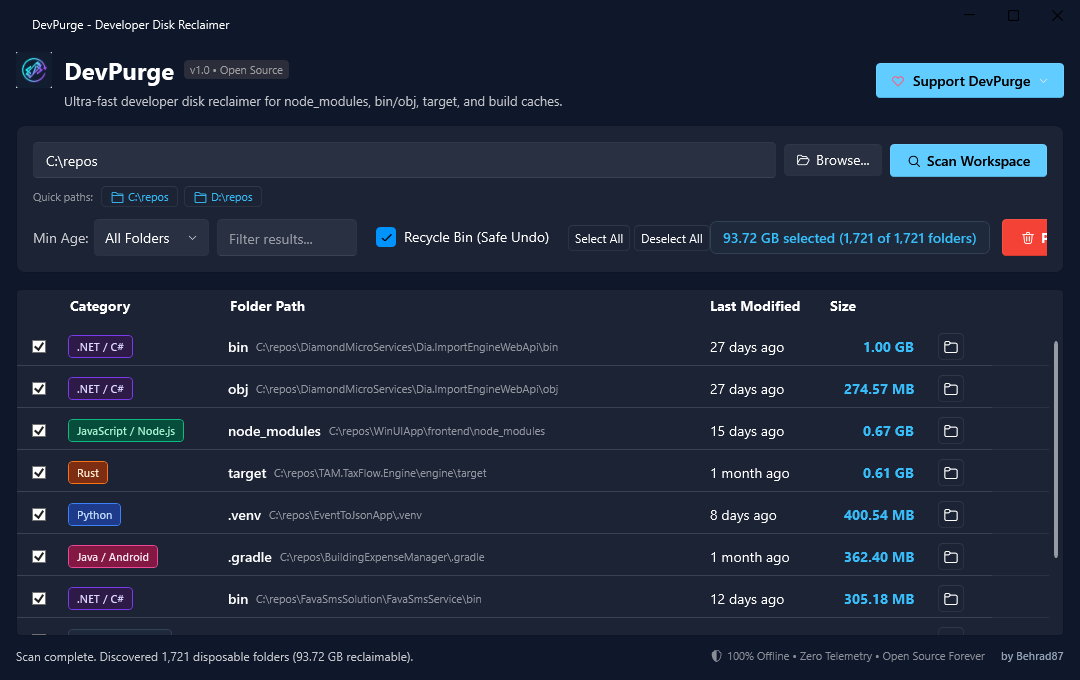
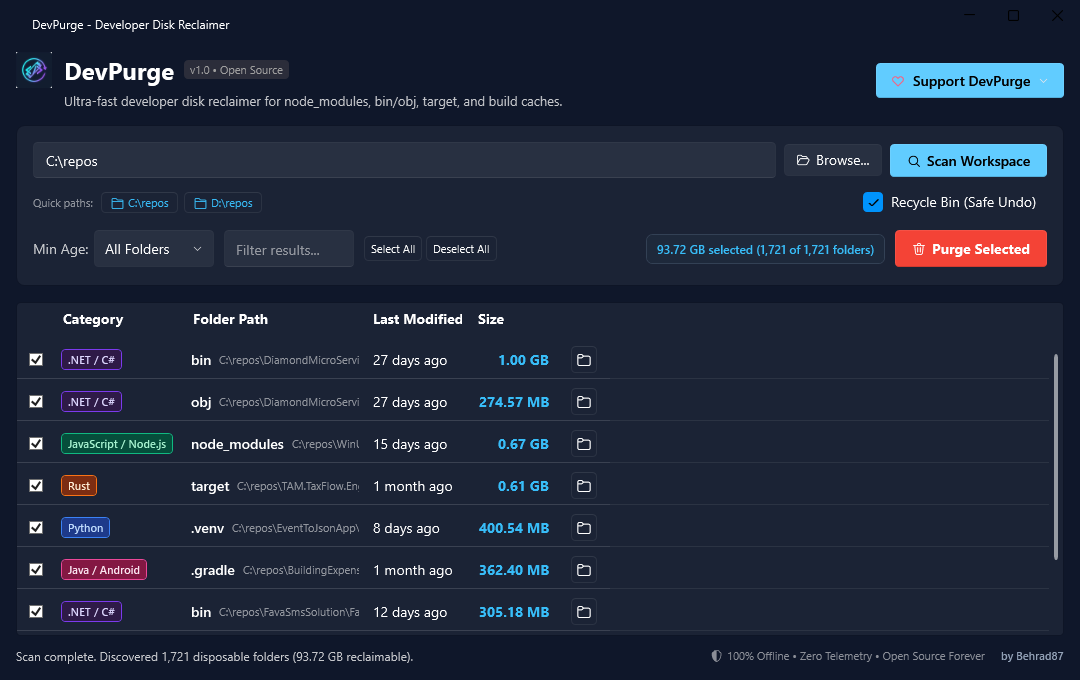
fix(ux): make toolbar and datagrid responsive and debounce search filtering

diff --git a/src/DevPurge.App/Views/MainWindow.xaml b/src/DevPurge.App/Views/MainWindow.xaml
@@ -8,7 +8,7 @@
         mc:Ignorable="d"
         Title="DevPurge - Developer Disk Reclaimer"
         Height="680" Width="1080"
-        MinHeight="550" MinWidth="850"
+        MinHeight="520" MinWidth="750"
         WindowStartupLocation="CenterScreen"
         Icon="pack://application:,,,/Assets/icon.ico">
 
@@ -141,78 +141,84 @@
                     </ui:Button>
                 </Grid>
 
-                <!-- Row 2: Quick Path Preset Chips -->
-                <StackPanel Grid.Row="1" Orientation="Horizontal" Margin="0,0,0,12">
-                    <TextBlock Text="Quick paths:" FontSize="11" Foreground="{DynamicResource TextFillColorTertiaryBrush}" VerticalAlignment="Center" Margin="0,0,8,0" />
-                    <ui:Button Command="{Binding SelectQuickPathCommand}" CommandParameter="C:\repos"
-                               Appearance="Transparent" Padding="8,2" Margin="0,0,6,0">
-                        <TextBlock Text="📁 C:\repos" FontSize="11" Foreground="#38BDF8" />
-                    </ui:Button>
-                    <ui:Button Command="{Binding SelectQuickPathCommand}" CommandParameter="D:\repos"
-                               Appearance="Transparent" Padding="8,2" Margin="0,0,6,0">
-                        <TextBlock Text="📁 D:\repos" FontSize="11" Foreground="#38BDF8" />
-                    </ui:Button>
-                </StackPanel>
-
-                <!-- Row 3: Filters, Search, Selection & Purge Action -->
-                <Grid Grid.Row="2">
+                <!-- Row 2: Quick Path Preset Chips & Recycle Bin Toggle -->
+                <Grid Grid.Row="1" Margin="0,0,0,10">
                     <Grid.ColumnDefinitions>
-                        <ColumnDefinition Width="Auto" />
-                        <ColumnDefinition Width="Auto" />
-                        <ColumnDefinition Width="Auto" />
-                        <ColumnDefinition Width="Auto" />
                         <ColumnDefinition Width="*" />
-                        <ColumnDefinition Width="Auto" />
                         <ColumnDefinition Width="Auto" />
                     </Grid.ColumnDefinitions>
 
-                    <!-- Filter by Age -->
-                    <StackPanel Grid.Column="0" Orientation="Horizontal" VerticalAlignment="Center" Margin="0,0,8,0">
-                        <TextBlock Text="Min Age:" VerticalAlignment="Center" Margin="0,0,6,0"
-                                   Foreground="{DynamicResource TextFillColorSecondaryBrush}" />
-                        <ComboBox SelectedIndex="{Binding MinAgeFilterIndex}" Width="115">
-                            <ComboBoxItem Content="All Folders" />
-                            <ComboBoxItem Content="> 7 days old" />
-                            <ComboBoxItem Content="> 14 days old" />
-                            <ComboBoxItem Content="> 30 days old" />
-                        </ComboBox>
+                    <StackPanel Grid.Column="0" Orientation="Horizontal" VerticalAlignment="Center">
+                        <TextBlock Text="Quick paths:" FontSize="11" Foreground="{DynamicResource TextFillColorTertiaryBrush}" VerticalAlignment="Center" Margin="0,0,8,0" />
+                        <ui:Button Command="{Binding SelectQuickPathCommand}" CommandParameter="C:\repos"
+                                   Appearance="Transparent" Padding="8,2" Margin="0,0,6,0">
+                            <TextBlock Text="📁 C:\repos" FontSize="11" Foreground="#38BDF8" />
+                        </ui:Button>
+                        <ui:Button Command="{Binding SelectQuickPathCommand}" CommandParameter="D:\repos"
+                                   Appearance="Transparent" Padding="8,2" Margin="0,0,6,0">
+                            <TextBlock Text="📁 D:\repos" FontSize="11" Foreground="#38BDF8" />
+                        </ui:Button>
                     </StackPanel>
 
-                    <!-- Live Real-Time Search Filter -->
-                    <ui:TextBox Grid.Column="1" Text="{Binding SearchText, UpdateSourceTrigger=PropertyChanged}"
-                                PlaceholderText="Filter results..."
-                                Width="140" VerticalContentAlignment="Center" Margin="0,0,8,0"
-                                ClearButtonEnabled="True" />
-
-                    <!-- Recycle Bin Toggle -->
-                    <CheckBox Grid.Column="2" IsChecked="{Binding SendToRecycleBin}"
-                              Content="Recycle Bin (Safe Undo)" VerticalAlignment="Center" Margin="0,0,8,0"
+                    <!-- Recycle Bin Toggle (Anchored on right of Row 2) -->
+                    <CheckBox Grid.Column="1" IsChecked="{Binding SendToRecycleBin}"
+                              Content="Recycle Bin (Safe Undo)" VerticalAlignment="Center"
                               ToolTip="Moves files to the Windows Recycle Bin instead of permanent deletion" />
+                </Grid>
 
-                    <!-- Quick Selection Buttons -->
-                    <StackPanel Grid.Column="3" Orientation="Horizontal" VerticalAlignment="Center">
-                        <ui:Button Command="{Binding SelectAllCommand}" Appearance="Transparent" Padding="6,4" Margin="0,0,4,0">
-                            <TextBlock Text="Select All" FontSize="12" />
-                        </ui:Button>
-                        <ui:Button Command="{Binding DeselectAllCommand}" Appearance="Transparent" Padding="6,4">
-                            <TextBlock Text="Deselect All" FontSize="12" />
+                <!-- Row 3: Responsive Filters & Action Toolbar -->
+                <Grid Grid.Row="2">
+                    <Grid.ColumnDefinitions>
+                        <ColumnDefinition Width="*" />
+                        <ColumnDefinition Width="Auto" />
+                    </Grid.ColumnDefinitions>
+
+                    <!-- Left: Filter Controls (Uses WrapPanel to wrap gracefully if window is narrow) -->
+                    <WrapPanel Grid.Column="0" Orientation="Horizontal" VerticalAlignment="Center">
+                        <!-- Filter by Age -->
+                        <StackPanel Orientation="Horizontal" VerticalAlignment="Center" Margin="0,2,10,2">
+                            <TextBlock Text="Min Age:" VerticalAlignment="Center" Margin="0,0,6,0"
+                                       Foreground="{DynamicResource TextFillColorSecondaryBrush}" />
+                            <ComboBox SelectedIndex="{Binding MinAgeFilterIndex}" Width="120">
+                                <ComboBoxItem Content="All Folders" />
+                                <ComboBoxItem Content="> 7 days" />
+                                <ComboBoxItem Content="> 14 days" />
+                                <ComboBoxItem Content="> 30 days" />
+                            </ComboBox>
+                        </StackPanel>
+
+                        <!-- Live Real-Time Search Filter -->
+                        <ui:TextBox Text="{Binding SearchText, UpdateSourceTrigger=PropertyChanged}"
+                                    PlaceholderText="Filter results..."
+                                    Width="130" VerticalContentAlignment="Center" Margin="0,2,10,2"
+                                    ClearButtonEnabled="True" />
+
+                        <!-- Quick Selection Buttons -->
+                        <StackPanel Orientation="Horizontal" VerticalAlignment="Center" Margin="0,2,8,2">
+                            <ui:Button Command="{Binding SelectAllCommand}" Appearance="Transparent" Padding="6,4" Margin="0,0,4,0">
+                                <TextBlock Text="Select All" FontSize="11" />
+                            </ui:Button>
+                            <ui:Button Command="{Binding DeselectAllCommand}" Appearance="Transparent" Padding="6,4">
+                                <TextBlock Text="Deselect All" FontSize="11" />
+                            </ui:Button>
+                        </StackPanel>
+                    </WrapPanel>
+
+                    <!-- Right: Reclaimable Summary Badge & PURGE BUTTON (Always visible & pinned to the right) -->
+                    <StackPanel Grid.Column="1" Orientation="Horizontal" VerticalAlignment="Center" Margin="8,2,0,2">
+                        <Border Background="#1E293B" BorderBrush="#334155" BorderThickness="1"
+                                CornerRadius="6" Padding="10,6" Margin="0,0,10,0" VerticalAlignment="Center">
+                            <TextBlock Text="{Binding SummaryText}" FontWeight="SemiBold" Foreground="#38BDF8" FontSize="12" />
+                        </Border>
+
+                        <ui:Button Command="{Binding PurgeCommand}"
+                                   Appearance="Danger" Padding="16,8">
+                            <StackPanel Orientation="Horizontal">
+                                <ui:SymbolIcon Symbol="Delete24" Margin="0,0,6,0" />
+                                <TextBlock Text="Purge Selected" FontWeight="Bold" />
+                            </StackPanel>
                         </ui:Button>
                     </StackPanel>
-
-                    <!-- Reclaimable Badge Summary -->
-                    <Border Grid.Column="5" Background="#1E293B" BorderBrush="#334155" BorderThickness="1"
-                            CornerRadius="6" Padding="12,6" Margin="0,0,12,0" VerticalAlignment="Center">
-                        <TextBlock Text="{Binding SummaryText}" FontWeight="SemiBold" Foreground="#38BDF8" />
-                    </Border>
-
-                    <!-- PURGE BUTTON -->
-                    <ui:Button Grid.Column="6" Command="{Binding PurgeCommand}"
-                               Appearance="Danger" Padding="18,8">
-                        <StackPanel Orientation="Horizontal">
-                            <ui:SymbolIcon Symbol="Delete24" Margin="0,0,6,0" />
-                            <TextBlock Text="Purge Selected" FontWeight="Bold" />
-                        </StackPanel>
-                    </ui:Button>
                 </Grid>
             </Grid>
         </Border>
@@ -235,15 +241,15 @@
                 <DataGrid.Columns>
                     <!-- Checkbox Column -->
                     <DataGridCheckBoxColumn Binding="{Binding IsSelected, UpdateSourceTrigger=PropertyChanged}"
-                                            Width="45" Header="" />
+                                            Width="38" Header="" />
 
                     <!-- Category / Ecosystem Badge (Color Coded) -->
-                    <DataGridTemplateColumn Header="Category" Width="160">
+                    <DataGridTemplateColumn Header="Category" Width="130">
                         <DataGridTemplateColumn.CellTemplate>
                             <DataTemplate>
                                 <Border Background="{Binding CategoryBadgeBackground}"
                                         BorderBrush="{Binding CategoryBadgeBorder}" BorderThickness="1"
-                                        CornerRadius="4" Padding="8,3"
+                                        CornerRadius="4" Padding="6,2"
                                         HorizontalAlignment="Left" VerticalAlignment="Center">
                                     <TextBlock Text="{Binding CategoryName}" FontSize="11" FontWeight="Medium"
                                                Foreground="{Binding CategoryBadgeForeground}" />
@@ -253,7 +259,7 @@
                     </DataGridTemplateColumn>
 
                     <!-- Folder Name & Path -->
-                    <DataGridTemplateColumn Header="Folder Path" Width="*" MinWidth="480">
+                    <DataGridTemplateColumn Header="Folder Path" Width="*" MinWidth="180">
                         <DataGridTemplateColumn.CellTemplate>
                             <DataTemplate>
                                 <StackPanel Orientation="Horizontal" VerticalAlignment="Center">
@@ -265,20 +271,20 @@
                     </DataGridTemplateColumn>
 
                     <!-- Age / Last Modified -->
-                    <DataGridTextColumn Header="Last Modified" Binding="{Binding FormattedAge}" Width="120" />
+                    <DataGridTextColumn Header="Last Modified" Binding="{Binding FormattedAge}" Width="105" />
 
                     <!-- Size Column -->
-                    <DataGridTemplateColumn Header="Size" Width="110">
+                    <DataGridTemplateColumn Header="Size" Width="95">
                         <DataGridTemplateColumn.CellTemplate>
                             <DataTemplate>
                                 <TextBlock Text="{Binding FormattedSize}" FontWeight="Bold" Foreground="#38BDF8"
-                                           HorizontalAlignment="Right" VerticalAlignment="Center" Margin="0,0,12,0" />
+                                           HorizontalAlignment="Right" VerticalAlignment="Center" Margin="0,0,10,0" />
                             </DataTemplate>
                         </DataGridTemplateColumn.CellTemplate>
                     </DataGridTemplateColumn>
 
                     <!-- Actions (Open in Explorer) -->
-                    <DataGridTemplateColumn Header="" Width="60">
+                    <DataGridTemplateColumn Header="" Width="45">
                         <DataGridTemplateColumn.CellTemplate>
                             <DataTemplate>
                                 <ui:Button Command="{Binding OpenInExplorerCommand}"

diff --git a/src/DevPurge.App/ViewModels/MainViewModel.cs b/src/DevPurge.App/ViewModels/MainViewModel.cs
@@ -47,7 +47,22 @@ public partial class MainViewModel : ObservableObject
     [ObservableProperty]
     private string _searchText = string.Empty;
 
-    partial void OnSearchTextChanged(string value) => ApplyFilter();
+    private CancellationTokenSource? _searchCts;
+
+    partial void OnSearchTextChanged(string value)
+    {
+        _searchCts?.Cancel();
+        _searchCts = new CancellationTokenSource();
+        var token = _searchCts.Token;
+
+        Task.Delay(120, token).ContinueWith(t =>
+        {
+            if (!t.IsCanceled)
+            {
+                System.Windows.Application.Current?.Dispatcher.Invoke(ApplyFilter);
+            }
+        }, TaskScheduler.Default);
+    }
 
     public bool HasNoItemsAndNotScanning => !IsScanning && !HasResults;
 
@@ -277,7 +292,6 @@ public partial class MainViewModel : ObservableObject
 
     private void ApplyFilter()
     {
-        DisplayedItems.Clear();
         int minDays = MinAgeFilterIndex switch
         {
             1 => 7,
@@ -302,7 +316,16 @@ public partial class MainViewModel : ObservableObject
             );
         }
 
-        foreach (var item in query)
+        var list = query.ToList();
+
+        if (list.Count == DisplayedItems.Count && list.SequenceEqual(DisplayedItems))
+        {
+            UpdateSummary();
+            return;
+        }
+
+        DisplayedItems.Clear();
+        foreach (var item in list)
         {
             DisplayedItems.Add(item);
         }
